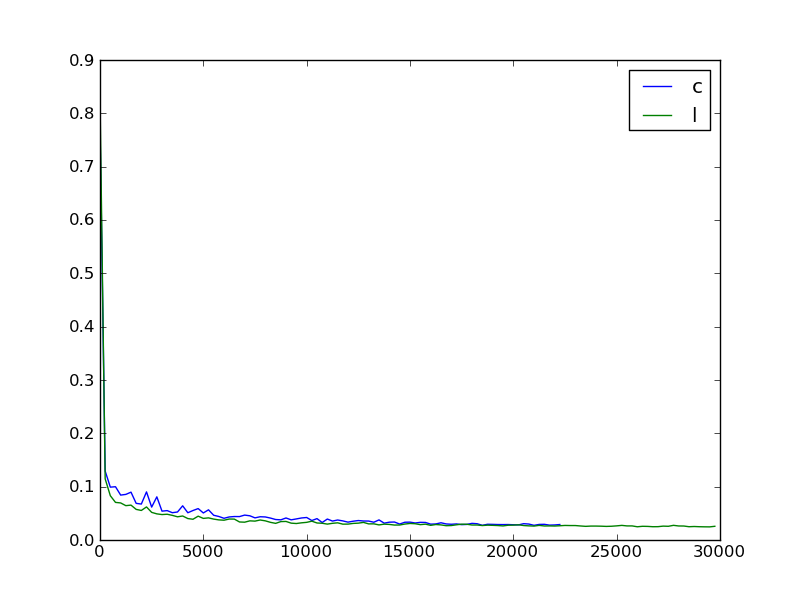
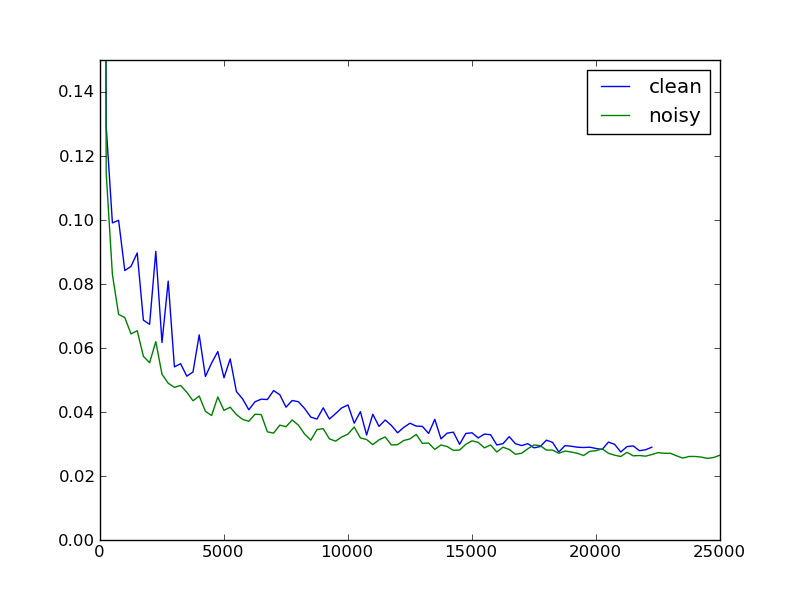
update

diff --git a/dLearn/learning_model/mlp.py b/dLearn/learning_model/mlp.py
@@ -61,8 +61,8 @@ class MLP(LearningModel):
         self.L1_reg = L1_reg
         self.L2_reg = L2_reg
         
-        self.epoch = []
-        self.valid_error = []
+        self.batch_num = []
+        self.test_error = []
 
         
         
@@ -129,25 +129,9 @@ class MLP(LearningModel):
                                        self.test_set_y[index*self.batch_size:
                                                       (index+1)*self.batch_size]},
                                     allow_input_downcast=True)
-#         self.active_rate = None
-#         for layer in self.layers:
-#             if isinstance(layer, NoisyRELU):
-#                 outputs = layer.get_active_rate(batch_x_theano)
-#                 print outputs.__class__
-#                 self.active_rate = function(inputs=[index], outputs=outputs,
-#                                             givens={batch_x_theano:
-#                                                     self.train_set_X[index*self.batch_size:
-#                                                                     (index+1)*self.batch_size]})
-    
-                
-        
-        #import pdb
-        #pdb.set_trace()
             
-    def train(self):
-         
-        validation_freq = 250
-        
+    def train(self, validation_freq=500, improve_threshold=0.995):
+                 
         n_train_batch = self.train_set_X.eval().shape[0] / self.batch_size
         n_valid_batch = self.valid_set_X.eval().shape[0] / self.batch_size
         n_test_batch = self.test_set_X.eval().shape[0] / self.batch_size
@@ -157,7 +141,6 @@ class MLP(LearningModel):
         start_time = time.clock()
          
         best_valid_loss = inf
-        improve_threshold = 0.995
          
         epoch = 0
         continue_training = True
@@ -170,54 +153,51 @@ class MLP(LearningModel):
                 batch_avg_cost = self.train_model(batch_index)
                 
                 if batch_index % validation_freq == 0:
-                    #print 'self.valid_set.size[0]', self.valid_set.size[0]                            
                     validation_losses = [self.valid_model(i) for i
                                          in xrange(n_valid_batch)]
                     this_valid_loss = mean(validation_losses)
+
+                    print ('=========<epoch: %i, valid_batch: %i/%i>========='
+                    % (epoch, batch_index, n_train_batch))
                     
-                    self.epoch.append(epoch*n_train_batch + batch_index)
+                    print ('valid error %.2f %%' % (this_valid_loss * 100.)) 
                     
-                    self.valid_error.append(this_valid_loss)
-                    print '==========================================================='
-                    print ('epoch %i, batch number %i/%i, valid error %.2f %%' %
-                            (epoch, batch_index, n_train_batch, this_valid_loss * 100.)) 
-  
-                    print ('continue_training', continue_training)
-                    
+                    # extracting extra information from each layer
                     X = self.train_set_X.eval()[batch_index*self.batch_size:
                                             (batch_index+1)*self.batch_size]
-                    
-                    print ('extra information for batch %i' % batch_index)
-                    
                     for layer in self.layers:
                         layer.extension(X)
                     
-                     
                     if this_valid_loss < best_valid_loss:
+                        
+                        best_valid_loss = this_valid_loss
+                        best_iter = [epoch, batch_index]
                         
                         if this_valid_loss < improve_threshold * best_valid_loss:
                             continue_training = True
                         
-                        best_valid_loss = this_valid_loss
-                        best_iter = [epoch, batch_index]
                          
-                        test_losses = [self.test_model(i) for i 
-                                       in xrange(n_test_batch)] #test
-                        this_test_loss = mean(test_losses)
-                         
-                        print ('epoch %i, batch number %i/%i, test error %.2f %%' %
-                               (epoch, batch_index, n_train_batch, this_test_loss * 100.)) 
+                    # Get the mean test losses
+                    test_losses = [self.test_model(i) for i 
+                                   in xrange(n_test_batch)]
+                    this_test_loss = mean(test_losses)
+                    
+                    # record the test errors
+                    self.batch_num.append(epoch*n_train_batch + batch_index)
+                    self.test_error.append(this_test_loss)
+                     
+                    print ('test error %.2f %%' % (this_test_loss * 100.)) 
             
+                    print ('continue_training', continue_training)
+
             end_time = time.clock()
             print ('epoch %i took %.2fmin' % (epoch, (end_time-start_time)/60.))
             epoch += 1
 
                               
-    def train_batch(self, num_batches):
+    def train_batch(self, num_batches, validation_freq=500):
         
         assert num_batches >= 10000, 'at least 10k batches'
-        validation_freq = 1000 # the number of batches to train
-                                    # before the next validation
         
         best_valid_loss = inf
         best_iter = 0
@@ -229,10 +209,6 @@ class MLP(LearningModel):
         n_valid_batch = self.valid_set_X.eval().shape[0] / self.batch_size
         n_test_batch = self.test_set_X.eval().shape[0] / self.batch_size
         
-        #if self.active_rate is not None:
-        
-
-            
         
         while batch < num_batches:
              
@@ -240,38 +216,39 @@ class MLP(LearningModel):
                             
             if batch % validation_freq == 0:
                                 
+                validation_losses = [self.valid_model(i) for i
+                                     in xrange(n_valid_batch)]
+                this_valid_loss = mean(validation_losses)
+
+                print ('=========<epoch: %i, batch number: %i/%i>========='
+                % (batch/n_train_batch, batch, num_batches))
+                
+                print ('valid error %.2f %%' % (this_valid_loss * 100.)) 
+                
+                # extracting extra information from each layer
                 X = self.train_set_X.eval()[batch_index*self.batch_size:
-                                            (batch_index+1)*self.batch_size]
-                print ('extra information for batch %i' % batch)
+                                        (batch_index+1)*self.batch_size]
                 for layer in self.layers:
                     layer.extension(X)
                 
-                print 'validation in progress'
-                
-                validation_losses = [self.valid_model(i) for i in
-                                     xrange(n_valid_batch)]
-                this_valid_loss = mean(validation_losses)
-                
-                print ('batch number %i/%i, validation error %f %%' %
-                (batch, num_batches, this_valid_loss * 100.))
-                
-                
-                
                 if this_valid_loss < best_valid_loss:
                     best_valid_loss = this_valid_loss
-                    best_iter = batch
-                    
-                    test_losses = [self.test_model(i) for i in 
-                                   xrange(n_test_batch)]
-                    this_test_loss = mean(test_losses)
-                    print ('batch number %i/%i, test error %f %%' %
-                    (batch, num_batches, this_test_loss * 100.))            
+                    best_iter = [batch_index]
+                     
+                # Get the mean test losses
+                test_losses = [self.test_model(i) for i 
+                               in xrange(n_test_batch)]
+                this_test_loss = mean(test_losses)
+                
+                # record the test errors
+                self.batch_num.append(batch)
+                self.test_error.append(this_test_loss)
+                 
+                print ('test error %.2f %%' % (this_test_loss * 100.)) 
             
-            batch = batch + 1
+            batch += 1
             batch_index = batch % n_train_batch
-                        
-              
-    
+            
 
                    
             
@@ -325,7 +302,8 @@ class MLP(LearningModel):
         cPickle.dump(self, f)
         f.close()
         
-        
+    def set_learning_rate(self, learning_rate):
+        self.learning_rate = learning_rate
     
     
     

diff --git a/dLearn/utilies/__init__.py b/dLearn/utilies/__init__.py
@@ -4,26 +4,47 @@ matplotlib.use('Agg')
 import cPickle
 import matplotlib.pyplot as plt
 
-def plot_error(batches, errors, legends, save_path='plot.png'):
+def plot_error(batch_error_list, legends, save_path='plot.png', axis_limits=[0, 25000, 0, 0.15]):
     '''
-    batches: list of batch pkl files
-    errors: list of error pkl files
-    legends: list of legends pkl files
+    error_list: list of pkl files, where each pkl file contains [batch_num, test_error]
+    legends: list of legends for the datasets
     '''
     
-    assert len(batches) == len(errors) == len(legends)
+    assert len(batch_error_list) == len(legends)
     
     plots = []
-    legs =[]
-    for i in xrange(len(batches)):
-        bat = cPickle.load(open(batches[i], 'rb'))
-        err = cPickle.load(open(errors[i], 'rb'))
-        leg = cPickle.load(open(legends[i], 'rb'))
-        legs += leg
-        plots.append(plt.plot(bat, err))
+    for i in xrange(len(batch_error_list)):
+        bat_err_ls = cPickle.load(open(batch_error_list[i], 'rb'))
+        plots.append(plt.plot(bat_err_ls[0], bat_err_ls[1]))
         
-    
-    plt.legend(plots, legs)
+    plt.axis(axis_limits)
+    plt.legend(plots, legends)
     plt.savefig(save_path)
+
+
+    
+def test_learning_rates(model, learning_rates=[0.001, 0.005, 0.01, 0.05, 0.1, 0.5], 
+                        num_batches=10000, plot=False, axis_limits=[0, 25000, 0, 0.15],
+                        save_path='learning_rate.png'):
+    
+    plots = []
+    legends = []
+    for learning_rate in learning_rates:
+        model.set_learning_rate(learning_rate)
+        model.train_batch(num_batches)
+        
+        with open('{}.pkl'.format(learning_rate)) as f:
+            list = [model.batch_num, model.test_error]
+            cPickle.dump(list, f)
+        
+        if plot:
+            plots.append(plt.plot(model.batch_num, model.test_error))
+            legends.append(learning_rate)
+    
+    if plot:
+        plt.axis(axis_limits)
+        plt.legend(plots, legends)
+        plt.savefig(save_path)
+            
  
         

diff --git a/main.py b/main.py
@@ -93,18 +93,16 @@ def main():
     #plt.savefig('plot.png')
         
 def plot():
-    with open('legends_clean.pkl', 'wb') as leg_clean:
-        cPickle.dump('clean-2000-tanh', leg_clean)
-    with open('legends_noisy.pkl', 'wb') as leg_noisy:
-        cPickle.dump('noisy-2000-relu', leg_noisy)
         
-    legs = ['legends_clean.pkl', 'legends_noisy.pkl']
-    errors = ['errors_clean.pkl', 'errors_noisy.pkl']
-    batches = ['batches_clean.pkl', 'batches_noisy.pkl']
-    plot_error(batches, errors, legs)
+    legends = ['clean', 'noisy']
+    list = ['']
+    plot_error(batches, errors, legends)
+
+def main2():
     
 if __name__ == '__main__':
     import os
     #os.environ['PYLEARN2_DATA_PATH'] = '/Users/zhenzhou/Desktop/pylearn2/data'
     #main()
+    main2()
     plot()
